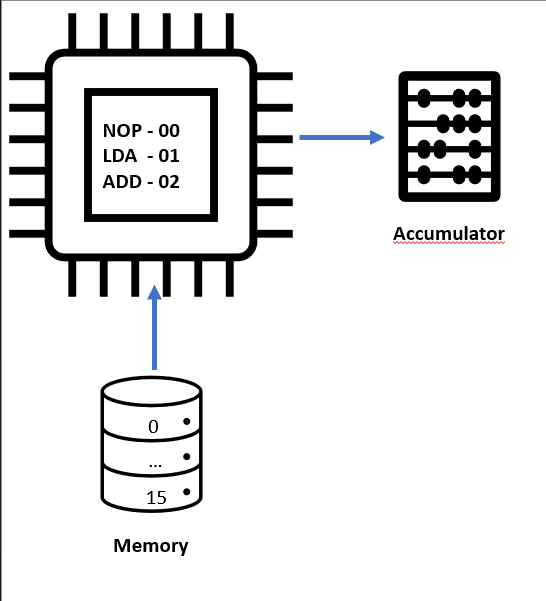
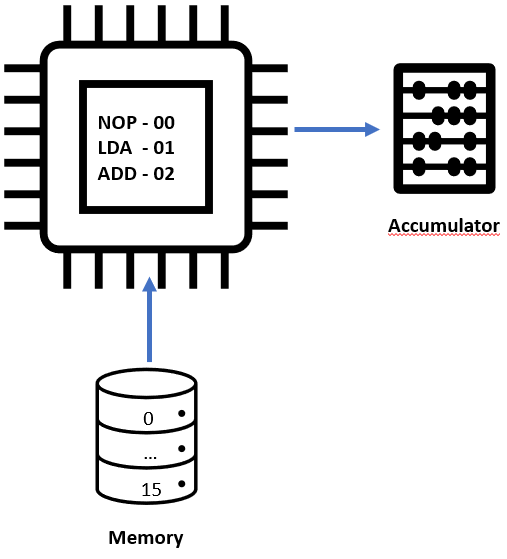
fault injections updates

Changed region(s): [[0.0, 0.0, 1.0, 1.0]]

diff --git a/_posts/2024-02-01-post-fault-injections.md b/_posts/2024-02-01-post-fault-injections.md
@@ -144,6 +144,31 @@ And this propagates to the Instruction level – wrong opcodes.
 - **Reset**,
 - **Bricking the device.**
 
+## Why would it even work?
+
+Now, let's take crash course in assembly language and machine code. This will help us understand the issues discussed.
+
+To explain this, let's imagine very simple processor, with some memory and an accumulator.
+
+The Accumulator is a kind of a working storage used to store the intermediate results of arithmetic operations.
+
+Our processor can only do 3 following things:
+
+1. NOP - do nothing,
+2. LDA - load something from memory to an accumulator,
+3. ADD - add something to the value in an accumulator.
+   
+Each of these instructions has its own unique code – 00, 01, 02.
+
+![CPU](https://github.com/porzechowski/blog/blob/master/assets/images/fault_injection/CPU.png?raw=true)
+
+If we want to load something into the accumulator from address no. 5 in memory, we will issue the command: **LDA 05** in binary that's **0001 0101**
+
+Note that depending on where our bit-flip occurs, we can either change the instruction or the address.
+This means that the attacker can hypothetically write or read something in a place in memory where theoretically he should not, or change the operation being performed.
+
+![attack](https://github.com/porzechowski/blog/blob/master/assets/images/fault_injection/machine_code.png?raw=true)
+
 ## Becoming the admin
 
 Ok so how can we become the admin?
